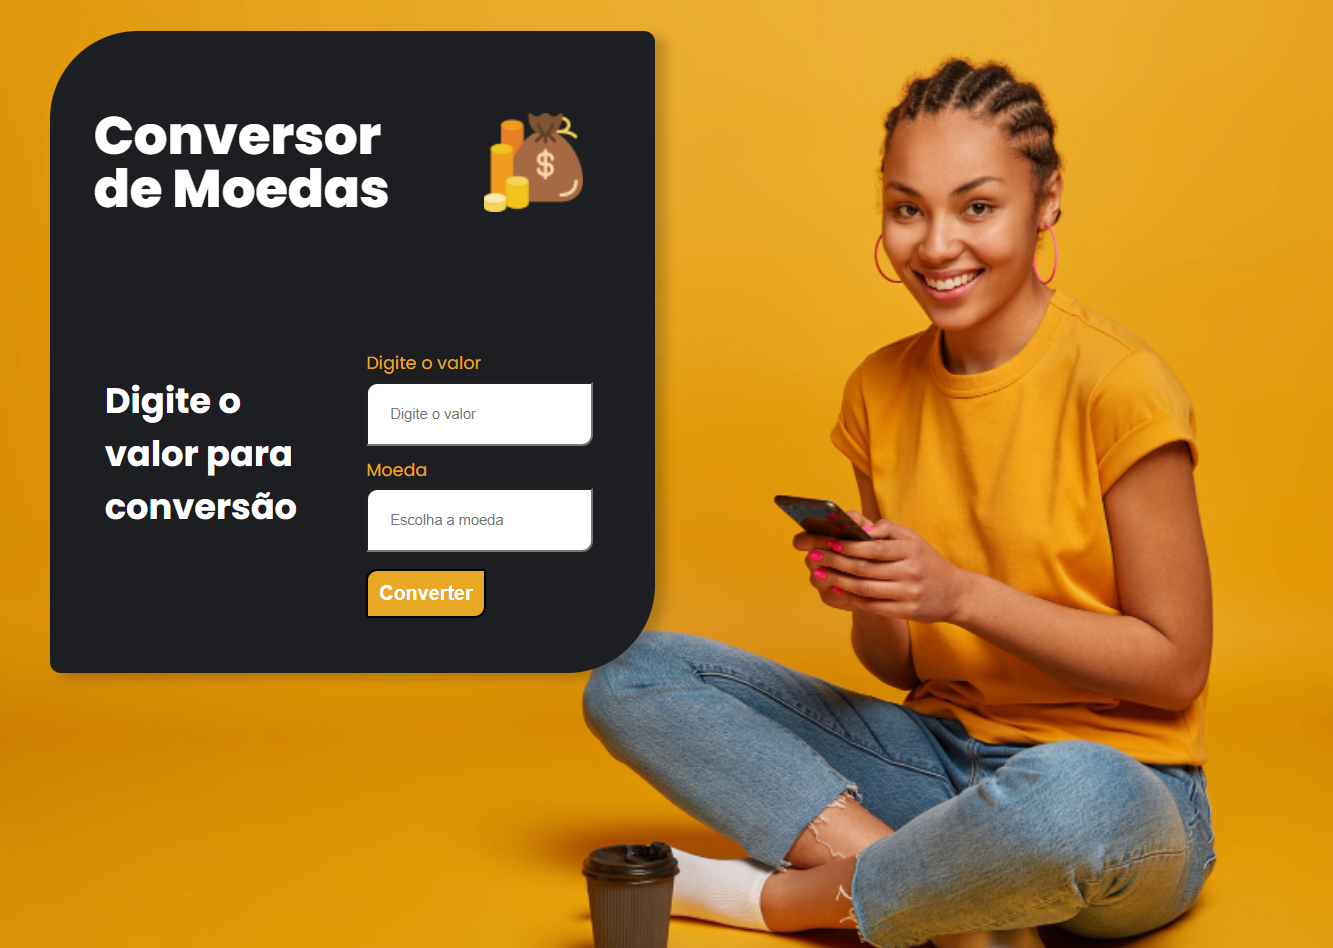
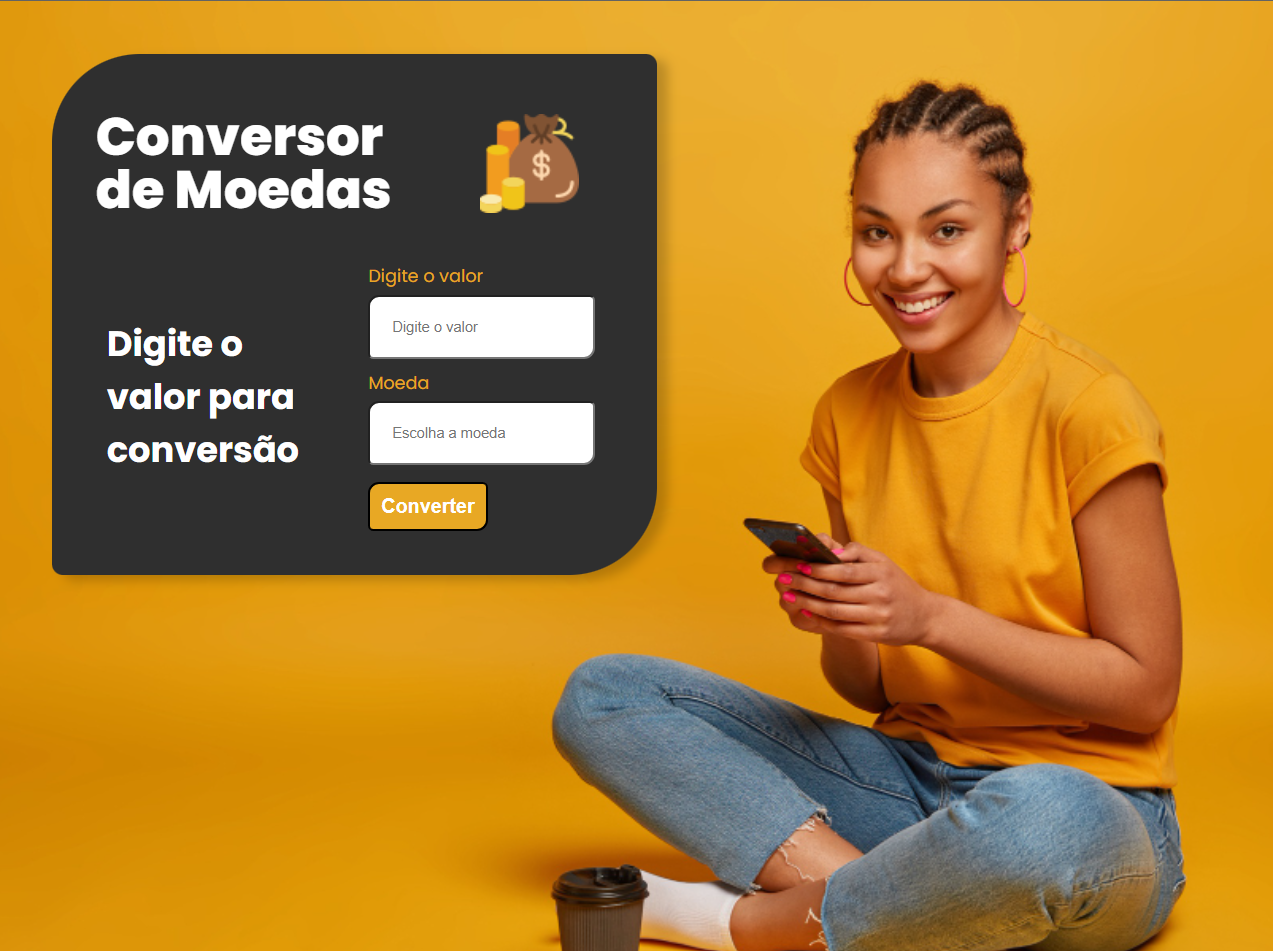
update

diff --git a/index.html b/index.html
@@ -8,33 +8,29 @@
         <title>Document</title>
     </head>
     <body>
-        
-        <div class="titulo">
-            <h1 id="titulo-programa">Conversor <br>de Moedas</h1>
-            <img src="https://github.com/robertojunnior/imersao-aluradev/blob/main/imagens/money-bag.png?raw=true" alt="icone-moeda">
-        </div>
-
-        <div class="container">
-            <div class="entradas">
-            <h1 id="chamda">Digite o<br>valor para conversão</h1>
-        </div>
-
-        <div class="valores">
-
-            <div class="direita-valores">
-                <div class="textfield">
-                <label for="text">Digite o valor</label>
-                <input type="text" name="usuario" placeholder="Digite o valor">
-                </div>
-
-                <div class="textfield">
-                <label for="text">Moeda</label>
-                <input type="text" name="cotacao" placeholder="Escolha a moeda">
-                </div>
-
-                <button class="btn-converter">Converter</button>
-            </div>
-        </div>   
+       <main>
+           <div class="container-titulo">
+               <h1 id="titulo-programa">Conversor <br>de Moedas</h1>
+               <img id="saco-moeda" src="https://github.com/robertojunnior/imersao-aluradev/blob/main/imagens/money-bag.png?raw=true" alt="icone-moeda">
+           </div>
+           <div class="container-valor">
+               <div class="digite-valor-para">
+               <h1 id="chamda">Digite o<br>valor para conversão</h1>
+           </div>
+           <div class="valores">
+               <div class="direita-valores">
+                   <div class="textfield">
+                   <label for="text">Digite o valor</label>
+                   <input type="text" name="usuario" placeholder="Digite o valor">
+                   </div>
+                   <div class="textfield">
+                   <label for="text">Moeda</label>
+                   <input type="text" name="cotacao" placeholder="Escolha a moeda">
+                   </div>
+                   <button class="btn-converter">Converter</button>
+               </div>
+           </div>
+       </main>
         
     </body>
 </html>

diff --git a/style.css b/style.css
@@ -8,38 +8,53 @@ body {
     background-position: center;  
   }
   
-  .titulo {
-    background-color: #1D1E22;
-    border-radius: 80px 10px 0px 0px;
+  main {
+    background-color: #2f2f2f;
+    border-radius: 80px 10px 80px 10px;
+    /* border-radius: 40px; */
     width: 530px;
     padding: 10px;
     display: flex;
-    align-itens: center; 
+    align-items: center; 
+    flex-direction: column;
     box-shadow: 10px 5px 10px rgba(0, 0, 0, 0.20);
-    
   }
-  
+
   #titulo-programa {
     color: #ffffff;
     font-size: 48px;
     line-height: 1;
     font-weight: 800;
-    padding: 30px;  
+    padding: 10px 30px;  
+  }
+
+  #saco-moeda {
+    height: 90px;
+    width: 90px;
   }
   
-  .container {
-    background-color: #1D1E22;
-    border-radius: 0px 0px 80px 10px;
+  #saco-moeda:hover {
+    transform: scale(1.1);
+    transition: 1.5s ease;
+}
+
+  .container-titulo {
+    width: 530px;
     display: flex;
-    align-itens: center;
+    align-items: center;
+    gap: 50px;
+  }
+    
+  .container-valor {
+    display: flex;
+    align-items: center;
     justify-content: center;
-    padding: 50px;
     width: 450px;
-    box-shadow: 10px 5px 10px rgba(0, 0, 0, 0.20);
+    padding-bottom: 30px;
   }
   
   
-  .entradas h1 {
+  .digite-valor-para h1 {
     color: #ffffff;
     gap: 10px;
   }
@@ -50,13 +65,10 @@ body {
   
   input {
     padding: 20px;
-    border-radius: 10px 0px;
+    border-radius: 10px 5px;
+    /* border-radius: 10px; */
     margin: 5px 0px 10px;
     text-align: left;
-  }
-  
-  .direita-valores {
-    
   }
   
   button {
@@ -65,21 +77,12 @@ body {
     font-size: 18px;
     font-weight: 700;
     padding: 10px;
-    border-radius: 10px 0px;
+    border-radius: 10px 5px;
+    /* border-radius: 10px; */
     margin-top: 5px;
   }
   
-  img {
-    margin: auto;
-    height:90px;
-    width: 90px;
-  }
-  
-  img:hover {
-      transform: scale(1.1);
-      transition: 1.5s ease;
-  }
-  
+ 
   button:hover {
       transform: scale(1.1);
       transition: 1.5s ease;
